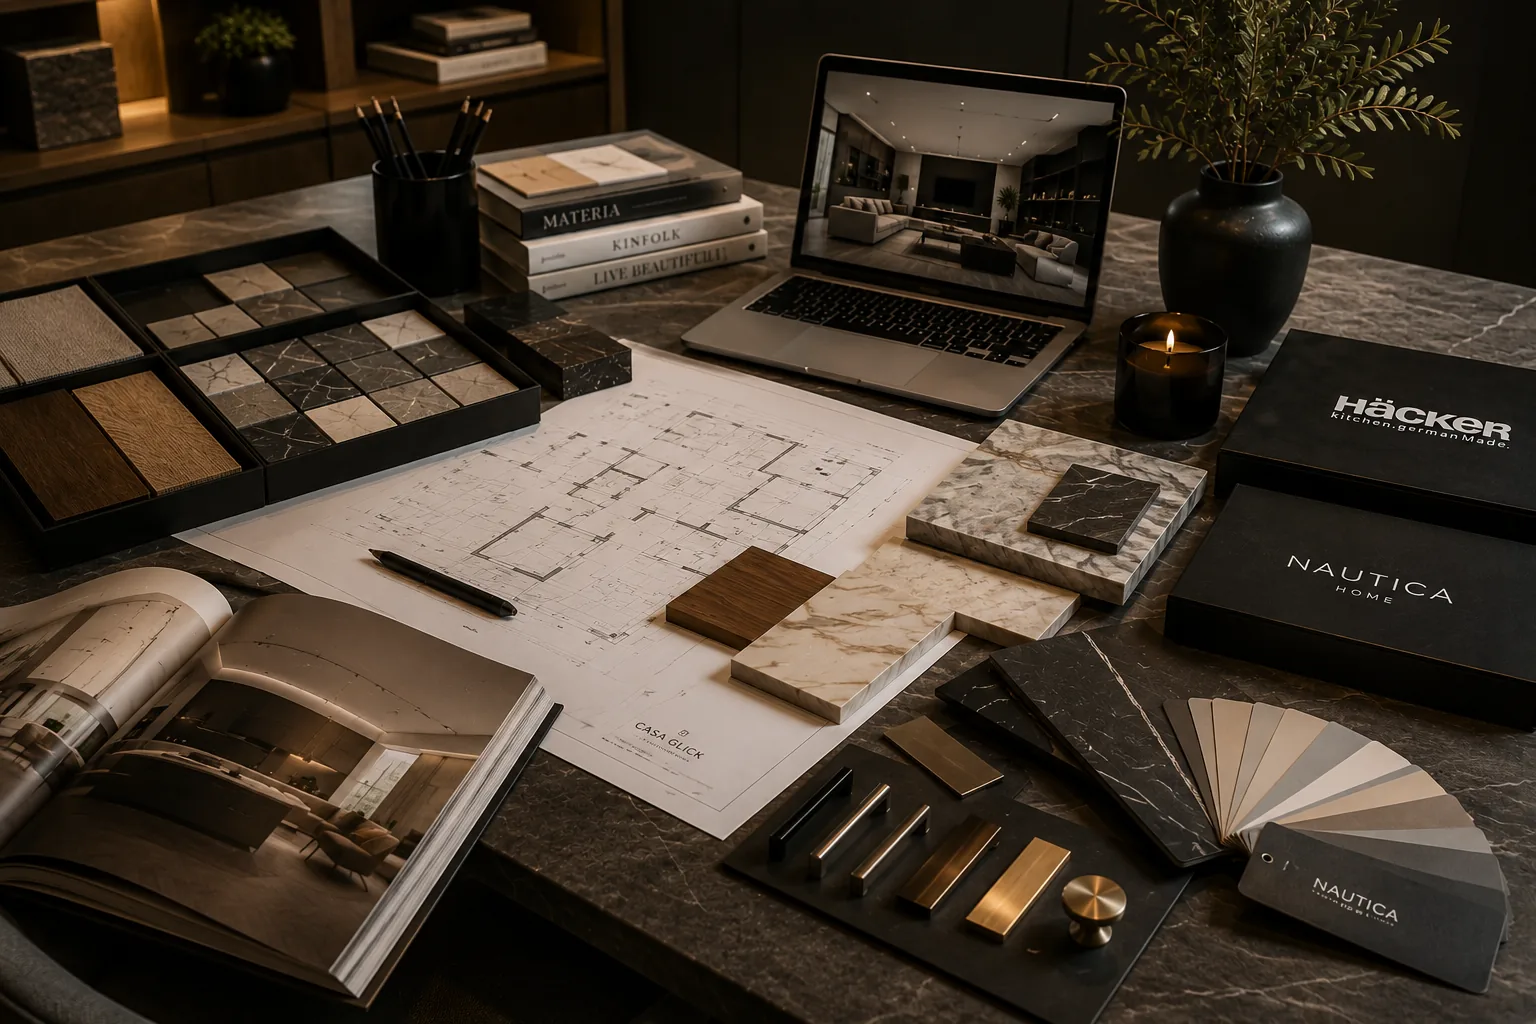
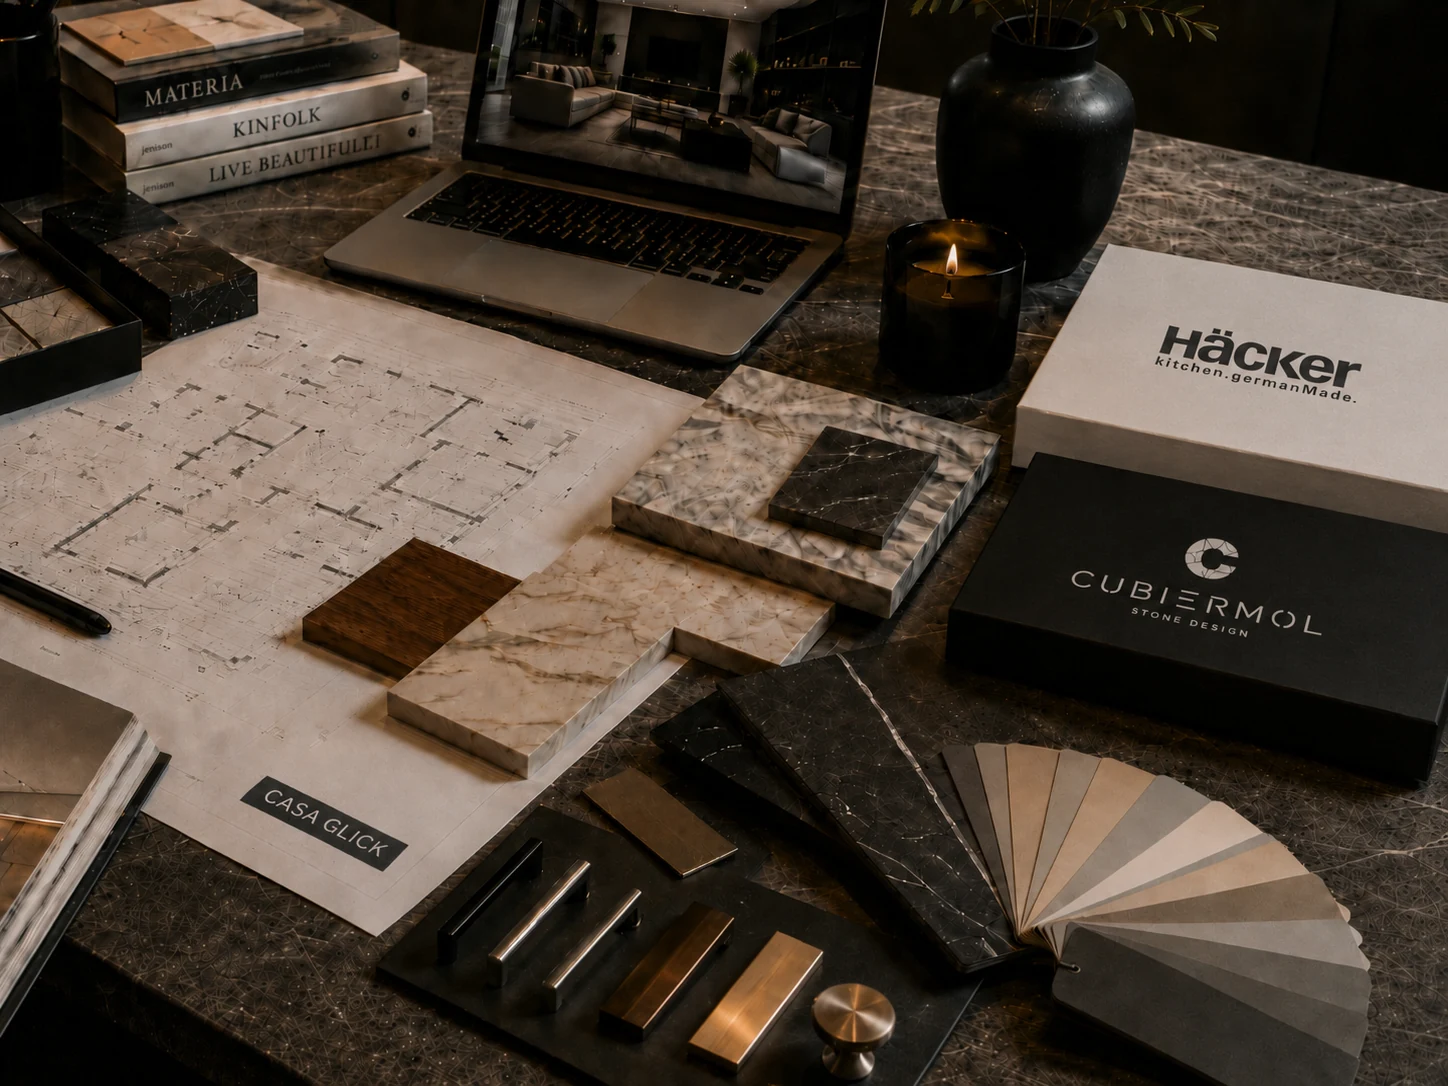
1707-0101

diff --git a/index.html b/index.html
@@ -734,7 +734,7 @@
     <span>Hablar con un agente</span>
   </a>
 
-  <script src="js/main.js?v=[phone redacted]-contact-firebase"></script>
-  <script type="module" src="js/contact-firebase.js?v=[phone redacted]-contact-firebase"></script>
+  <script src="js/main.js?v=[phone redacted]-contact-rules-v25"></script>
+  <script type="module" src="js/contact-firebase.js?v=[phone redacted]-contact-rules-v25"></script>
 </body>
 </html>

diff --git a/js/contact-firebase.js b/js/contact-firebase.js
@@ -1,4 +1,4 @@
-import { db } from "./firebase.js?v=[phone redacted]-contact-firebase";
+import { db } from "./firebase.js?v=[phone redacted]-contact-rules-v25";
 import {
   addDoc,
   collection,